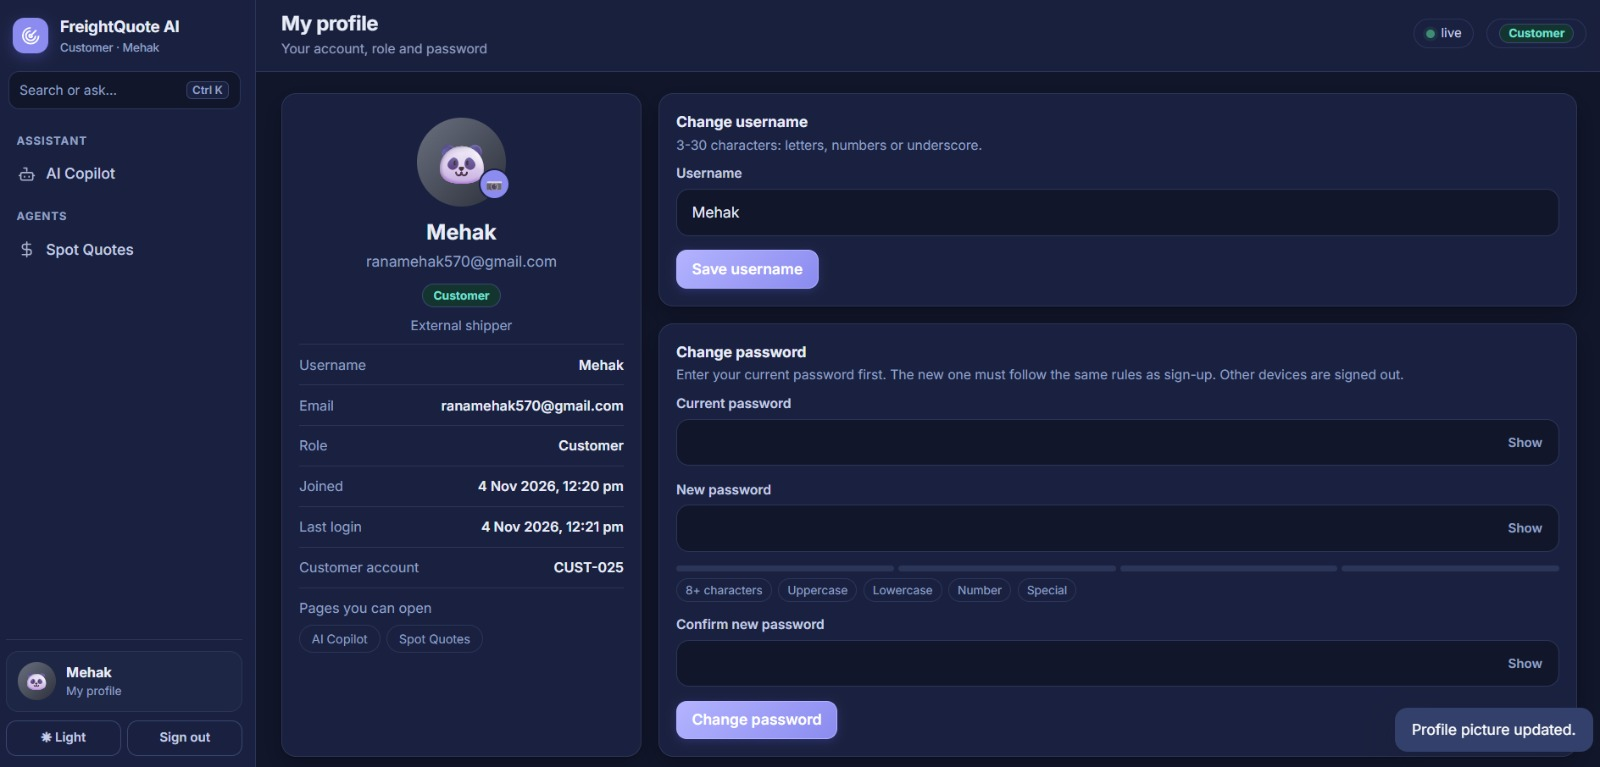
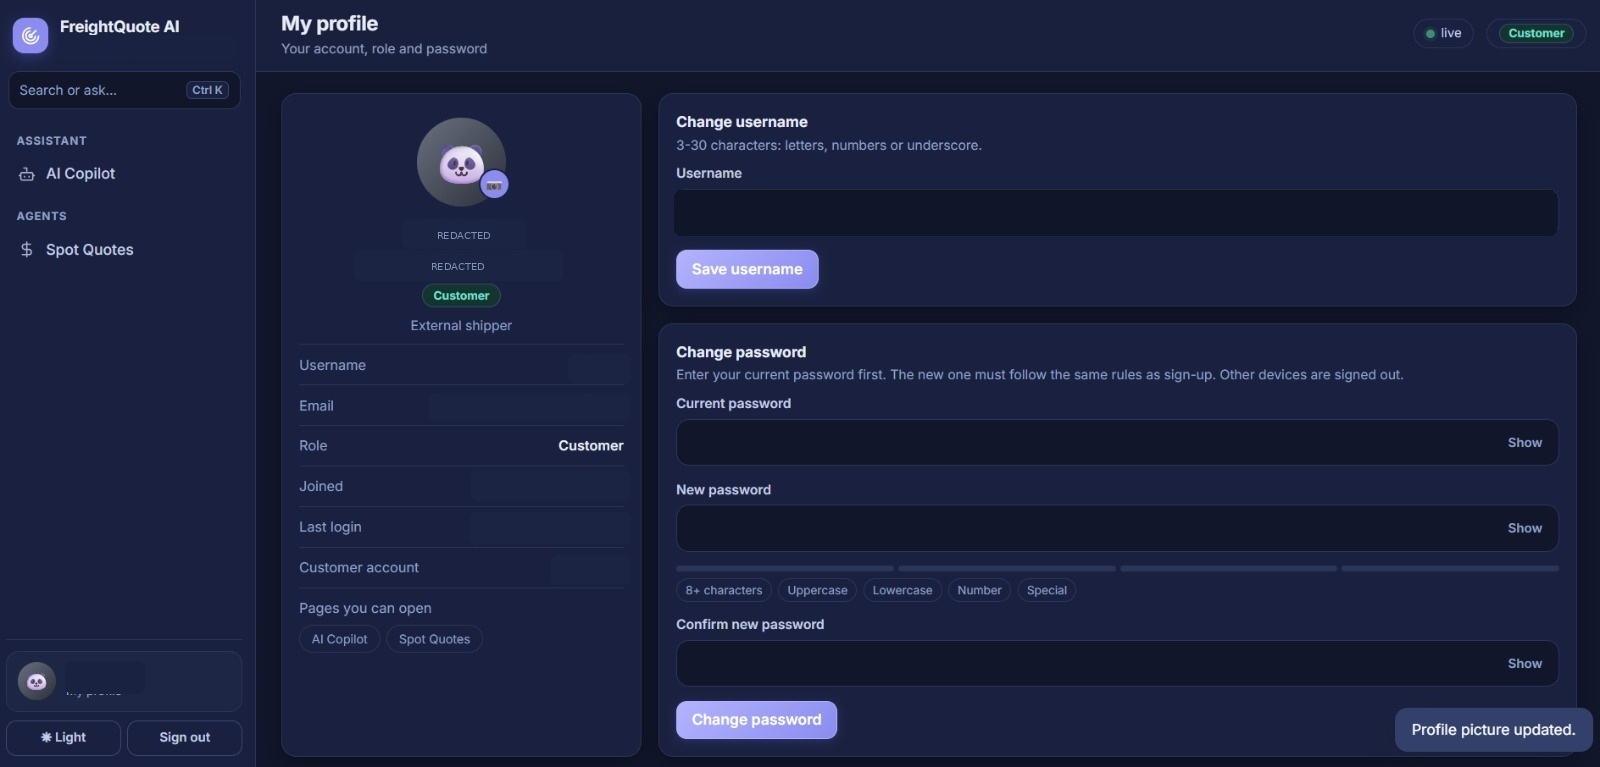
Add files via upload

diff --git a/Milestone2/README.md b/Milestone2/README.md
@@ -39,7 +39,7 @@ Milestone2/
 └── Screenshots/           # Milestone 2 evidence images and screenshot index
 ```
 
-**Source-of-truth note:** The notebook remains the canonical submission. The `app/` files are exact extracted copies of the notebook's `%%writefile` cells and embedded static assets, included so reviewers can browse individual files on GitHub. Running the notebook recreates `/content/app/` in Colab. The `Screenshots/` folder contains the 10 Milestone 2 JPEG evidence images copied into this package. The screenshots are stored locally, so they remain available when this folder is uploaded to your repository; no external image hosting is required.
+**Source-of-truth note:** The notebook remains the canonical submission. The `app/` files are exact extracted copies of the notebook's `%%writefile` cells and embedded static assets, included so reviewers can browse individual files on GitHub. Running the notebook recreates `/content/app/` in Colab. The `Screenshots/` folder contains the 10 Milestone 2 JPEG evidence images copied into this package. The screenshots are stored locally, so they remain available when this folder is uploaded to your repository; no external image hosting is required. The published copies have been privacy-redacted: account email addresses and login usernames, customer/account identifiers, account activity timestamps, a quote reference, a revenue figure, and a personal profile photo are obscured. The role labels and relevant application evidence remain visible. The Login Page screenshot had empty credential fields.
 
 There is no separate `app.py` entry point in this project. The FastAPI application is defined in `app/server.py` and launched by the notebook with Uvicorn as `server:app`.
 

diff --git a/Milestone2/Screenshots/README.md b/Milestone2/Screenshots/README.md
@@ -1,6 +1,6 @@
 # Milestone 2 screenshots only
 
-These 10 JPEGs are copied from the `Milestone2/screenshots/` directory of the team's Mehak repository. **Only Milestone 2 screenshots are included. No images from `Milestone1/` are included.**
+These 10 JPEGs are copied from the `Milestone2/screenshots/` directory of the team's Mehak repository. **Only Milestone 2 screenshots are included. No images from `Milestone1/` are included.** They have been sanitized before inclusion: account emails and usernames, customer/account identifiers, account activity timestamps, the quote reference and revenue amount are hidden; a personal profile photograph was replaced with a generic silhouette. The sign-in screenshot had no entered credentials.
 
 ## Screenshot gallery
 
